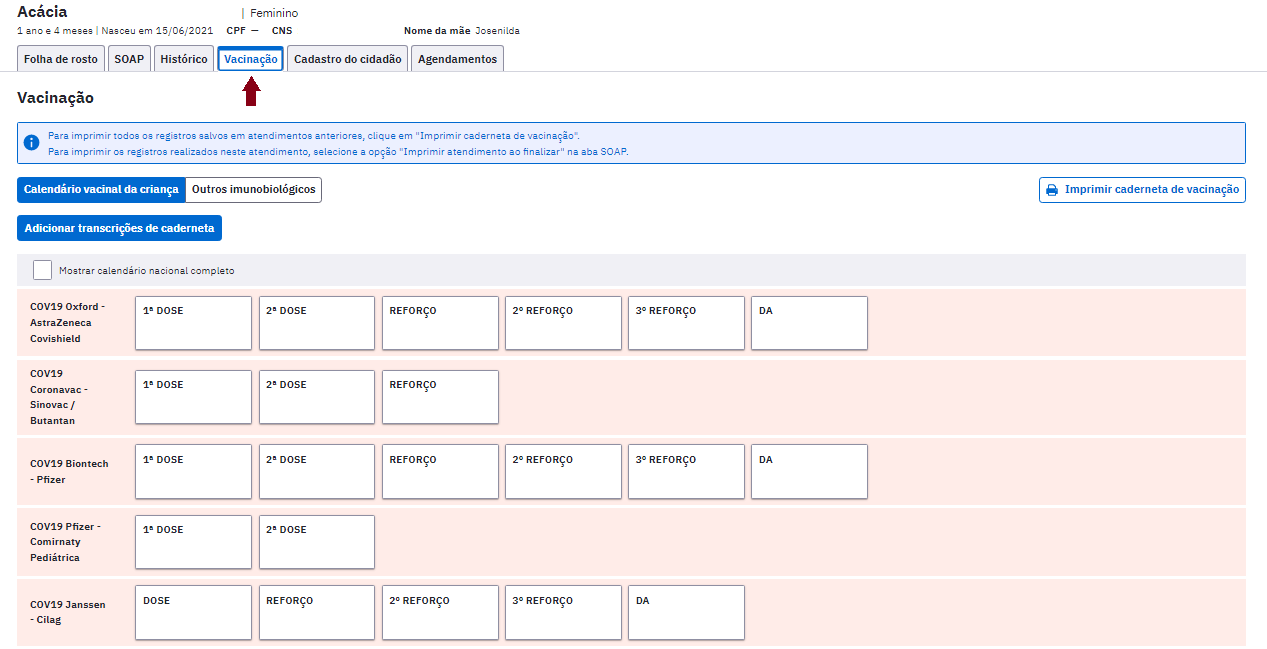
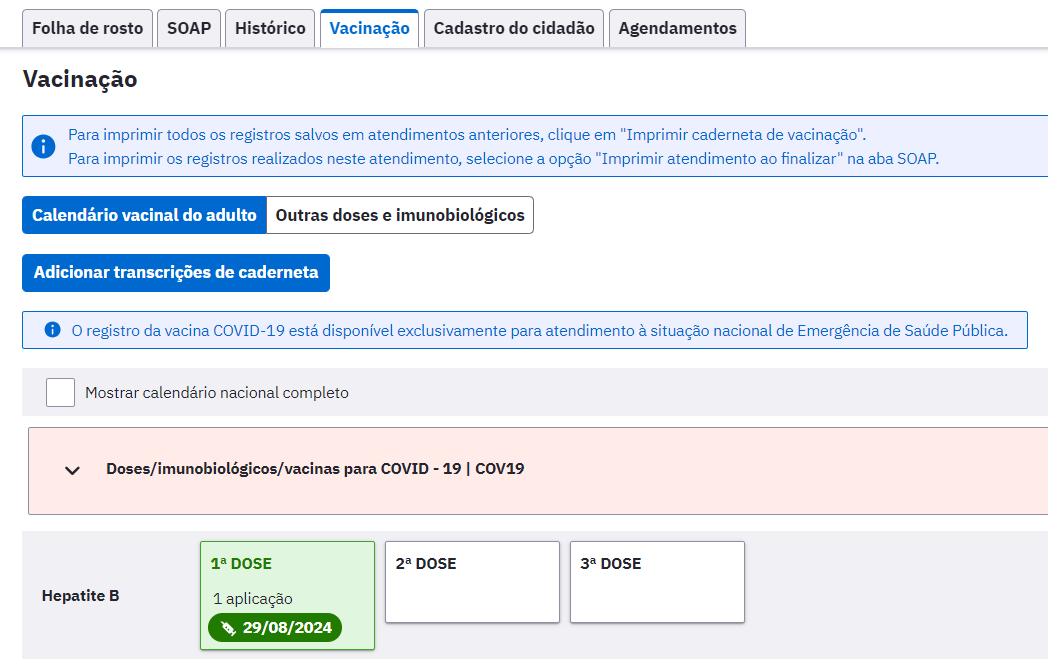
Revisão - Acompanhamento da situação vacinal

Changed region(s): [[0.0, 0.0, 1.0, 1.0], [0.5802, 0.678, 0.6107, 0.7704]]

diff --git a/docs/PEC/PEC_06_atendimentos.md b/docs/PEC/PEC_06_atendimentos.md
@@ -569,28 +569,32 @@ Fonte: SAPS/MS
 
 ## 6.3.6 Acompanhamento da situação vacinal
 
-No intuito de proporcionar aos profissionais de saúde o acompanhamento da situação vacinal do cidadão, sob a responsabilidade da equipe, foi desenvolvido no PEC esta funcionalidade que facilita, no momento da consulta, a visualização das vacinas que já foram aplicadas, as que estão em atraso e as que ainda não estão no período indicado.
+O acompanhamento da situação vacinal deve ser oportunizado, sempre que possível, também em momentos de contato do cidadão com a unidade de saúde por outros motivos. Para tal, é possível  verificar os registros vacinais também durante consultas. 
 
-O *Cartão* minimizado apresenta informações essenciais e objetivas ao acompanhamento da situação vacinal, tais como: Se a vacina está em dia, qual foi a última vacina aplicada e a data em que foi aplicada, conforme a figura abaixo.
+**Cartão "Vacinação"**  
+A folha de rosto exibe um cartão que apresenta informações básicas sobre a situação vacinal, tais como: última vacina aplicada e a data de aplicação, aprazamentos realizados e indicativo de que existem vacinas atrasadas ou não registradas.
 
-Figura 6.3.18 - Cartão de Vacinação
+Figura - Cartão de Vacinação
 
 ![](media/pec_image372.png)
 
 Fonte: SAPS/MS
 
-Ao clicar neste *Cartão* aparecem as vacinas recomendadas segundo o ciclo de vida do cidadão. Caso queira visualizar todas as vacinas do calendário clique em "Calendário nacional completo". Neste momento, o profissional de saúde poderá analisar a situação vacinal e indicar a atualização da caderneta de vacinação se existirem vacinas atrasadas ou disponíveis, conforme a figura abaixo.
+**Aba "Vacinação"**   
+A aba de vacinação é exibida também em outros atendimentos para que durante uma consulta, por exemplo, o profissional de saúde possa consultar a situação vacinal do cidadão. 
+Caso o cidadão traga consigo registros de outros serviços, é possível também aproveitar a oportunidade para realizar a transcrição dessas doses no PEC e assim manter o prontuário atualizado. 
 
-Figura 6.3.19 - Acompanhamento da situação do cartão vacinal
+Figura - Acompanhamento da situação vacinal 
 
 ![](media/pec_image373.png)
 
 Fonte: SAPS/MS
 
+É possível visualizar o calendário vacinal e outras doses e imunobiológicos, podendo consultar as aplicações realizadas, assim como as vacinas em atraso. 
+
 ## 6.3.8 Exclusão de registros de doses aplicadas de vacina após finalizado o atendimento
 
-{: .novidade }
-A partir da versão 4.3 o sistema e-SUS APS disponibiliza a funcionalidade de exclusão do registro de dose aplicada de vacina que já estava salvo no PEC. 
+Esta funcionalidade permite a exclusão do registro de dose aplicada de vacina que já estava salvo no PEC. 
 
 {: .nota }
 Esta opção de exclusão do registro de dose aplicada de vacina no PEC só pode ser executada pelo profissional que realizou o registro/atendimento.
